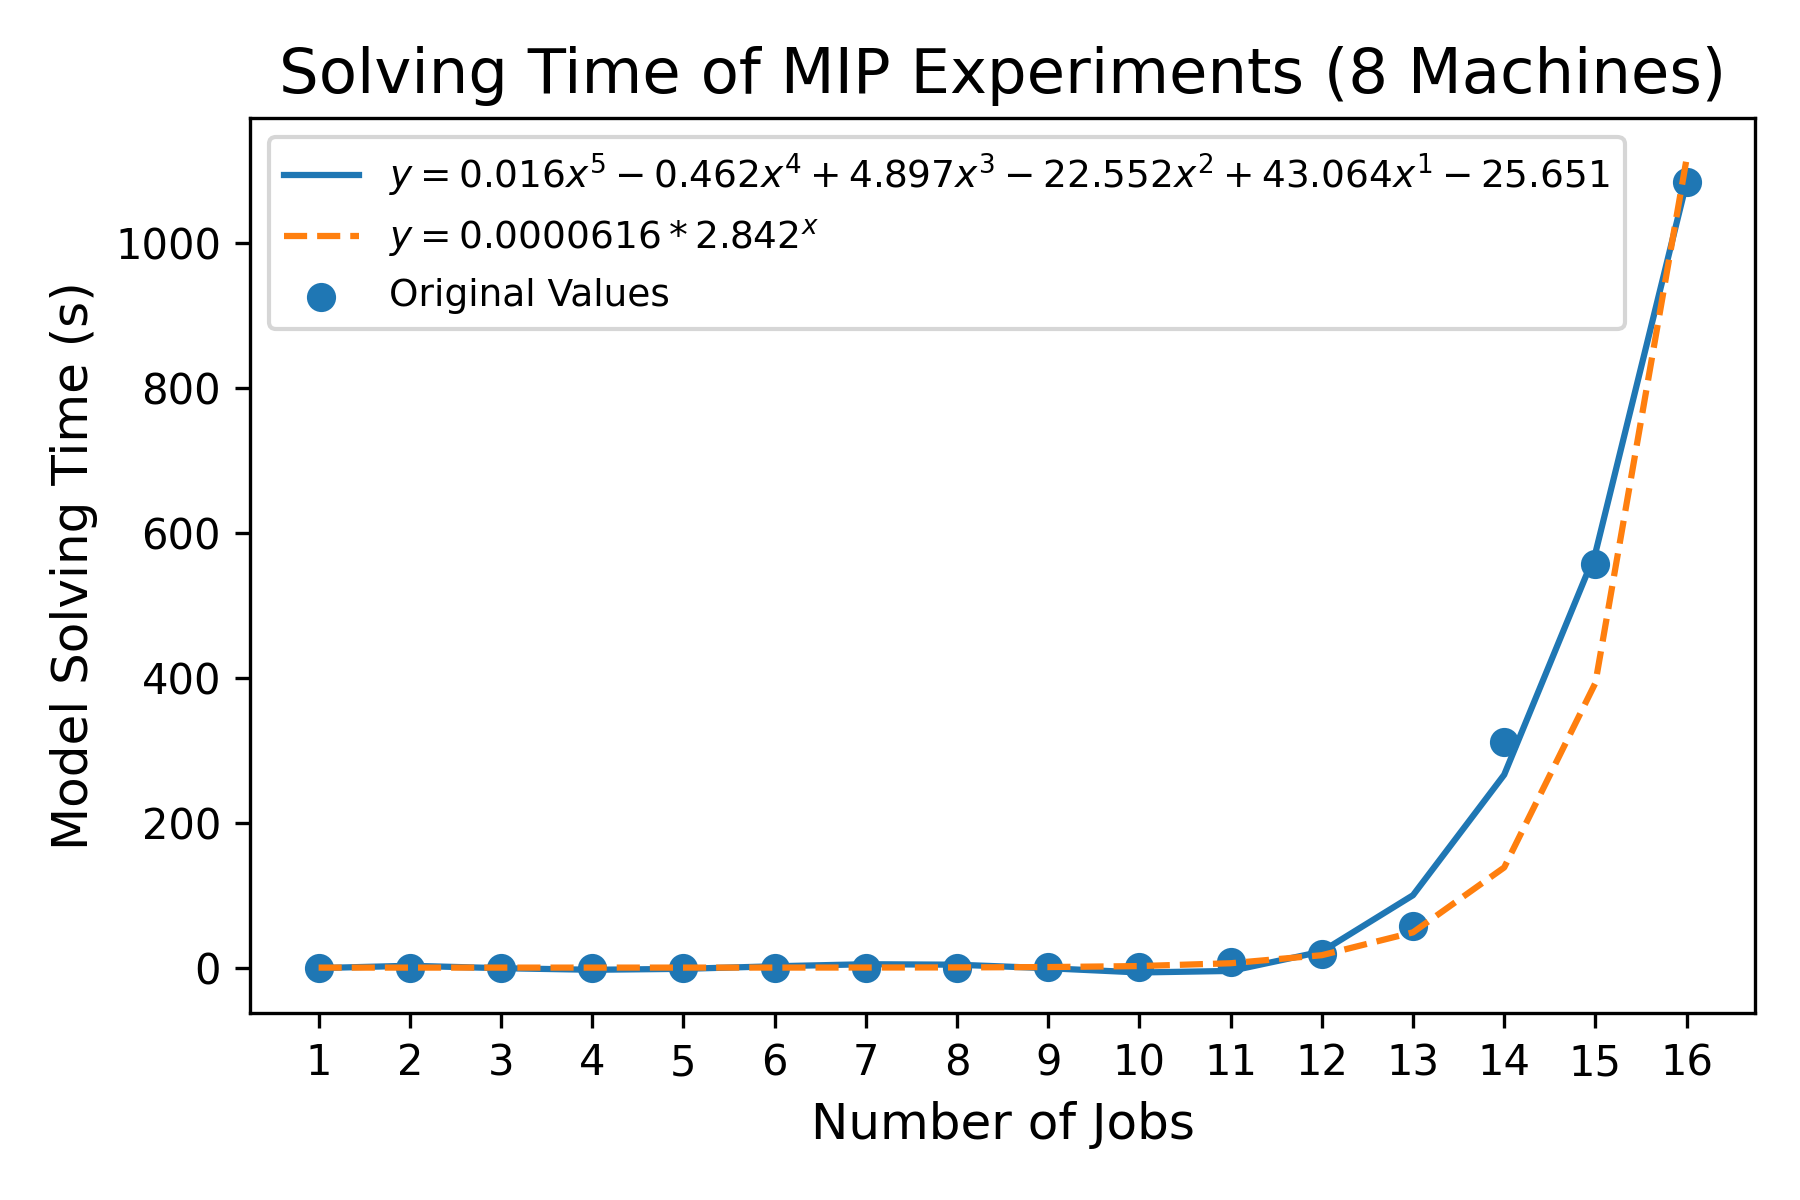
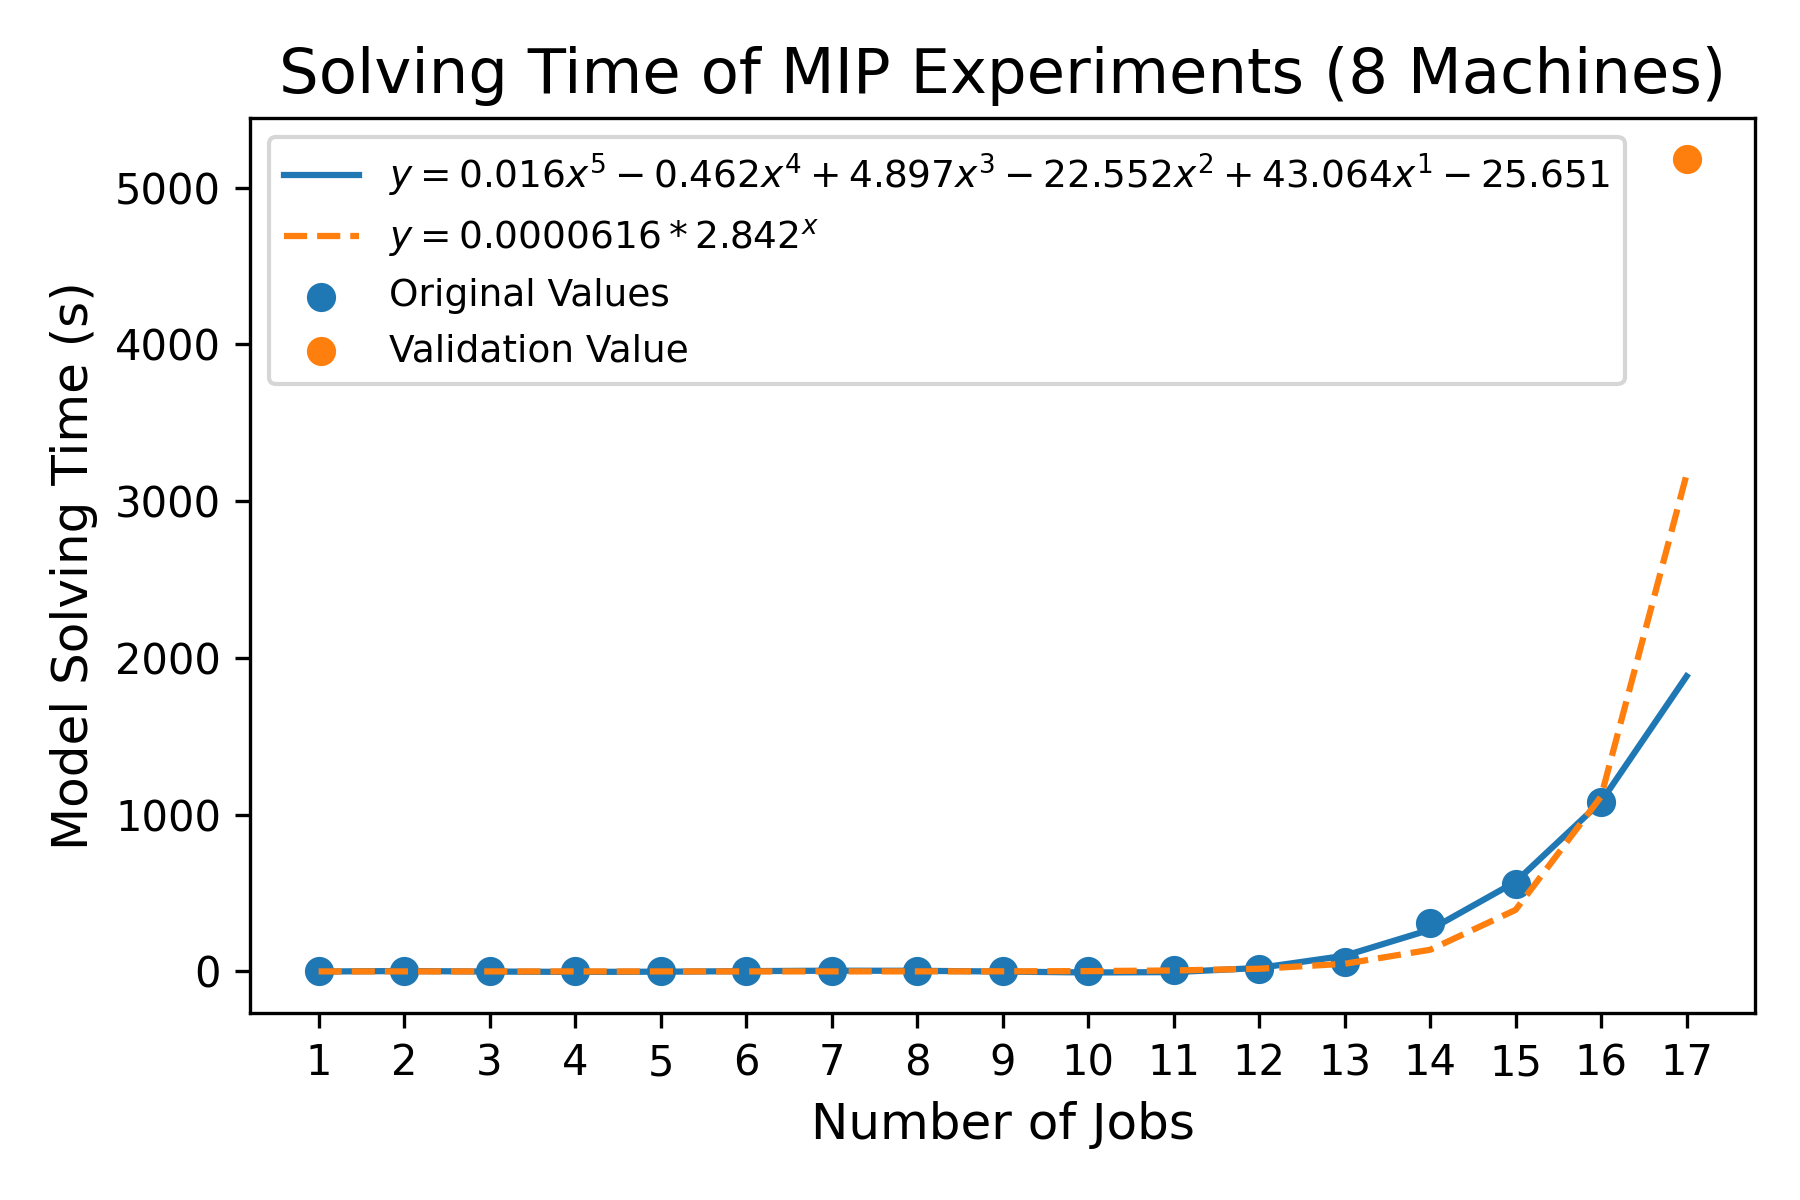
用17个任务进行了验证。

diff --git a/code_22_mip_analysis.py b/code_22_mip_analysis.py
@@ -39,23 +39,19 @@ plt.tight_layout()
 plt.savefig('02_Results/MIP/{}.png'.format(title), dpi=300)
 plt.show()
 
-machines = []
-building_times = []
-solving_times = []
-for n_machine, group in results_grouper:
-    machines.append(n_machine)
-    building_times.append(group['model_building_time'].tolist())
-    solving_times.append(group['model_solving_time'].tolist())
 machine_8_solving_time = solving_times[machines.index(8)]
 
 x = np.arange(1, len(machine_8_solving_time) + 1)
+x_extend = np.arange(1, len(machine_8_solving_time) + 2)
 y = np.array(machine_8_solving_time)
+y_17 = results['model_solving_time'][results['n_jobs'] == 17]
+y_17 = y_17.iloc[-1]
 
 f_polyfit = np.polyfit(x, y, 5)
 print('f_polyfit:\n', f_polyfit)
-y_polyfit_val = np.polyval(f_polyfit, x)
+y_polyfit_val = np.polyval(f_polyfit, x_extend)
 f_polyfit_expression = 'y='
-for i in range(len(f_polyfit)-1):
+for i in range(len(f_polyfit) - 1):
     f_polyfit_expression += '{}x^{}+'.format(round(f_polyfit[i], 3), len(f_polyfit) - i - 1)
 f_polyfit_expression += '{:.3f}'.format(f_polyfit[-1])
 f_polyfit_expression = f_polyfit_expression.replace('+-', '-')
@@ -63,18 +59,19 @@ f_polyfit_expression = f_polyfit_expression.replace('+-', '-')
 y_log = np.log(y + 0.0001)
 f_logfit = np.polyfit(x, y_log, 1)
 print('f_logfit:\n', f_logfit)
-y_logfit_val = np.exp(np.polyval(f_logfit, x))
+y_logfit_val = np.exp(np.polyval(f_logfit, x_extend))
 f_logfit_expression = 'y={:.7f}*{:.3f}^x'.format(np.exp(f_logfit[-1]), np.exp(f_logfit[0]))
 
 plt.figure(figsize=fig_size)
 plt.scatter(range(len(machine_8_solving_time)), machine_8_solving_time, label='Original Values')
+plt.scatter(16, y_17, label='Validation Value')
 plt.plot(y_polyfit_val, '-', label='${}$'.format(f_polyfit_expression))
 plt.plot(y_logfit_val, '--', label='${}$'.format(f_logfit_expression))
 plt.xlabel('Number of Jobs', fontsize=font_size_medium)
 plt.ylabel('Model Solving Time (s)', fontsize=font_size_medium)
-plt.xticks(range(len(solving_times[0])), range(1, len(solving_times[0]) + 1), fontsize=font_size_small)
+plt.xticks(range(len(solving_times[0])+1), range(1, len(solving_times[0]) + 2), fontsize=font_size_small)
 plt.yticks(fontsize=font_size_small)
-plt.legend(fontsize=font_size_small-1)
+plt.legend(fontsize=font_size_small - 1)
 title = 'Solving Time of MIP Experiments (8 Machines)'
 plt.title(title, fontsize=font_size_large)
 plt.tight_layout()
